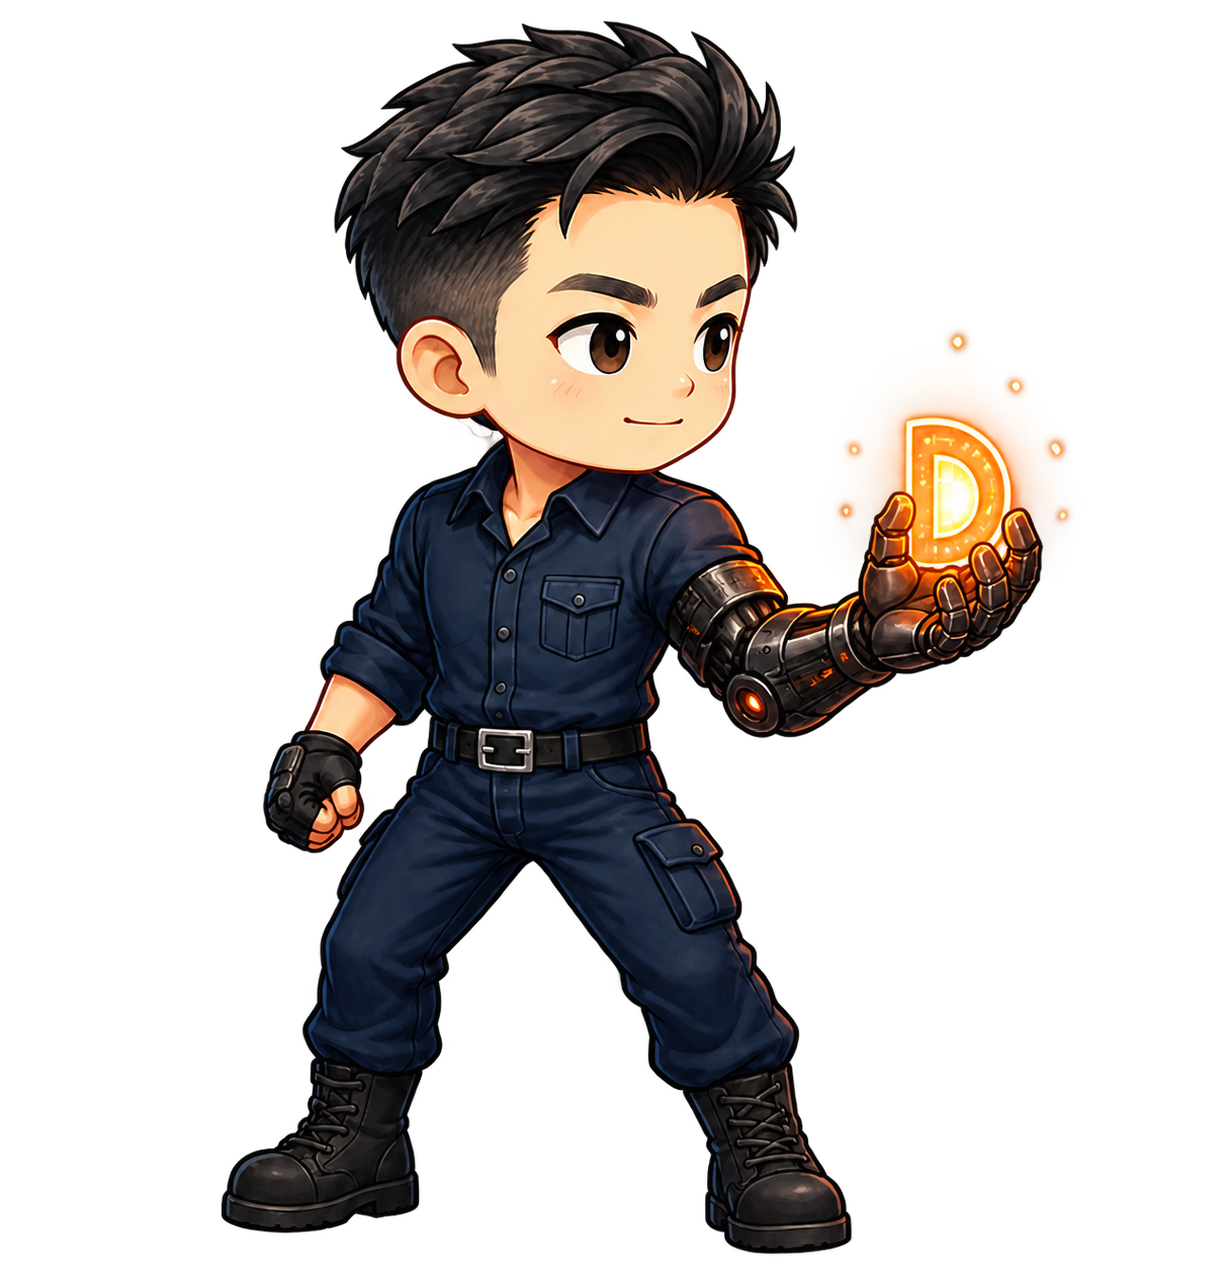
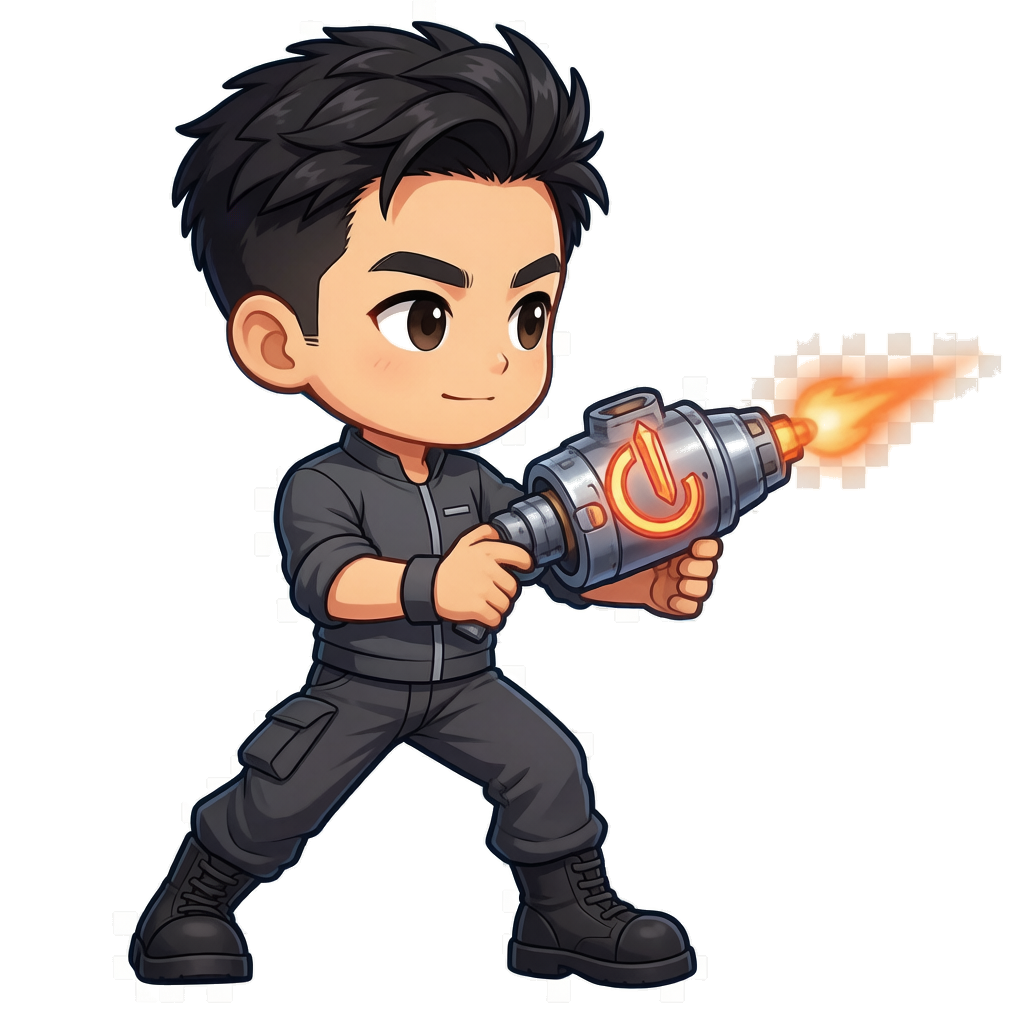
chore: snapshot before sprite placement refactor (I-level character art + project status)

diff --git a/docs/PROJECT_STATUS.md b/docs/PROJECT_STATUS.md
@@ -1,0 +1,178 @@
+# 项目阶段性总结
+
+> **项目：** 《逗呆呆家族大战外星人》（仓库名：`d-family-vs-aliens`）  
+> **状态日期：** 2026-08-30  
+> **用途：** 为后续开发、试玩和美术接入提供一个单页状态入口。现行玩法规则以
+> [`LOCKED_RULES.md`](./LOCKED_RULES.md) 为准；本文件不改变规则。
+
+## 1. 当前可玩版本
+
+项目已具备可玩的横屏、单机、无尽、离散回合制原型：Phaser 3 + TypeScript + Vite，
+并已配置 Capacitor Android 外壳。游戏的默认难度模式为
+`REWARD_ECONOMY_CURVE_V2`，其正常启动参数为 `BALANCED_V1`。
+
+玩家可拖拽、交换或合成防守单位；每次**合法**操作会完整结算一回合。当前有战斗
+动画、奖励捕获、合成/命中特效、音效、局后指标和本地调参面板。逻辑与难度测试已在
+此前阶段覆盖；本次仅新增文档，未重新修改或验证代码行为。
+
+## 2. 已确认核心玩法与规则
+
+- **棋盘：** 左侧防守区固定 `2 × 5`，右侧战场固定 `10 × 5`；防守单位不得进入战场。
+- **无尽回合制：** 合法操作 = 1 Turn；结算顺序为“玩家操作 → 全体单位齐射 →
+  Projectile 结算 → 存活敌人向左一格 → 世界静止”。玩家不操作，世界不推进。
+- **失败与得分：** 敌人进入防守区立即结束游戏；没有生命值或漏怪伤害。默认按实际
+  造成的敌人 HP 伤害计分。
+- **数值与攻击（Moyu V2）：** 单位值为 2 的幂；每株每回合发射一枚 Projectile，单发伤害为
+  Defender Value。Projectile 使用剩余伤害穿透敌人。
+- **大体型敌人：** 敌人为 `1 × 1` 或 `2 × 2`；后者共享 HP，能被所占两条 Lane 同时攻击。
+- **占位与表现：** Enemy / RewardBall footprint 不得重叠；无法安全生成或推进时跳过/停留。
+  战斗表现严格按“命中 → HP 更新 → 死亡移除”回放，避免视觉提前扣血或消失。
+
+## 3. Reward 经济模型（历史）
+
+RewardBall 是**唯一新增棋盘总战力**的来源；合成只改变分布，不增加总战力。
+
+- 出生槽开局为空；只能由 Projectile 命中 RewardBall 后写入。
+- RewardBall 命中后会消耗整颗 Projectile，并以 **Max Register** 更新出生槽：更低或相等
+  的值不会清空、降低或自动合成槽内数值；玩家可以跨回合保留出生槽。
+- RewardBall 是 `1 × 1` 战场单位，从最右列生成，随敌人移动；没有 HP，也不会直接造成
+  Game Over。
+- V2 自然 Reward 解锁池：T1–20 `{1}`、T21–40 `{1,2}`、T41–60 `{1,2,4}`、T61+ `{1,2,4,8}`，
+  自然生成硬上限为 `8`。`1` 在解锁后不会退出池。
+- 正常参数下每回合 Reward 生成率为 `0.80`，连续 1 回合未生成则触发保底。权重会从前期
+  约 `53/27/13/7%` 平滑走向后期约 `33/27/22/18%`（1/2/4/8）。
+- 经济记录区分四个值：**generated、reachable、captured、realized**；生成、可被射线触达、
+  实际捕获和最终放上棋盘不是同一件事。
+
+## 3A. 当前 Moyu Economy V2 规则方向
+
+当前开发目标已从自然 RewardBall/出生槽 Max Register 切换为《工位保卫战》Moyu Economy V2：
+
+- 每个 Defender 每回合只发射一颗 Projectile，伤害等于 Defender Value。
+- 资本怪可携带摸鱼值；死亡后在本轮全部 Projectile 结算完成后生成 MoyuPickup。
+- 任意 Projectile 命中 MoyuPickup 都会完整截弹并立即入 Moyu Bank，与伤害大小无关。
+- 摸鱼值到达回收边界时自动入账，不允许永久丢失；重复碰撞和动画中断不得重复或漏记。
+- 玩家从 Moyu Bank 主动提取 Power of Two；提取不耗 Turn，Spawn Slot 非空时禁止提取。
+
+实现细则与旧 RewardBall 路径见 [`MOYU_ECONOMY_V2_IMPLEMENTATION_NOTES.md`](./MOYU_ECONOMY_V2_IMPLEMENTATION_NOTES.md)。
+
+## 4. 难度系统与 `BALANCED_V1`
+
+难度由“标准玩家预期从 Reward 获得的战力”反推，**不读取真实玩家当前战力**，因此不是
+运行时橡皮筋。V2 以 `baselineCaptureRate`（45%）计算预期战力，再生成敌方 HP 收入预算。
+
+| 项目 | `BALANCED_V1` 默认值 |
+| --- | ---: |
+| Enemy Volume | `0.4` |
+| Enemy HP | `1.0` |
+| Reward Rate | `1.0` |
+| Large Enemy Rate | `1.0` |
+| Enemy Count Cap | `10` |
+| Baseline Reward Capture | `45%` |
+| Reward Progression | `1.0` |
+| High Value Bias | `0.70` |
+
+关键公式：`ExpectedPlantPower = 2 + 0.45 × cumulativeExpectedGeneratedReward`；
+`DifficultyFactor` 从 `0.45` 渐近增长至 `0.65`；普通怪目标 HP 约为预期战力的 `0.9`
+（生成时 ±15%），`2 × 2` 敌人 HP 约为普通怪 `1.1×`，但消耗 `1.8×` 出生预算。
+
+Spawn Safety Guard 会限制普通怪所需利用率至 55%、大怪至 60%，并对新批次设 75% 硬压力
+上限；必要时只会下调**新怪** HP、把大怪回退为普通怪或拒绝本次生成，不会改写场上怪物。
+
+`BALANCED_V1` 的已记录参考局为：**206,102 分 / Turn 574 / 最高单位 512 / PlantPower 844**，
+在持续压力达到 102% 后结束。旧 `PLAYABLE_BASELINE_V1` 与 `ENDLESS_CURVE_V1` 仍保留，
+只供 Debug 对照。
+
+## 5. UI 与 Android 适配
+
+- 逻辑画布为 `1920 × 1080`、16:9 横屏；主要布局为左侧防守区、右侧战场、顶部出生槽/分数/设置。
+- UI 有本地 Difficulty Debug Panel（按 `D` / 齿轮进入），可观察火力利用率、Reward 捕获率、
+  战场压力、出生安全检查和每局摘要；这些指标只用于观察，不会自动调难度。
+- Android 使用 Capacitor，应用 ID 为 `com.local.dfamilyvsaliens`，应用名为“逗呆呆家族大战外星人”，
+  `MainActivity` 已锁定横屏。当前仓库内有 `v1.0`–`v1.3-volume04` 的 debug APK **迁入前历史产物**，
+  不能视为本原创项目的正式发行版本；Android 工程版本号当前是 `2.0`（`versionCode 5`）。
+- 尚未做真机兼容性回归或正式签名/发布流程验证；后续每批资源接入后应重新执行 Web 构建与 Android debug build。
+
+## 6. 已确认美术与角色方向
+
+项目对外原创方向为 **D Family / D计划 / 呆呆一家**：爸爸、妈妈、小 R 共享原创 D-Core，
+不得使用植物、豆子、豌豆、叶片、花朵、植物炮，或任何会关联到既有游戏角色的命名与视觉语言。
+
+- **爸爸：** 火焰 / 穿透；红橙 D-Core，成长方向为熔炉、喷射能源、轨道炮和重型机械。
+- **妈妈：** Frost / 控场；冰蓝 D-Core，成长方向为冰晶、寒霜、领域与冰核。
+- **儿子：** 雷电 / 元素共鸣；黄白或青紫 D-Core。命中带 Fire 或 Frost 状态的敌人，各有
+  `+12.5%` 伤害的已确认数值草案；双状态的最终处理仍待决定。
+- 三条角色线各有 13 个二进制等级，按五阶段成长。实际生产先制作每人
+  `1 / 8 / 32 / 128 / 512 / 4096` 六张关键帧（共 18 张），而不是直接批量制作 39 张。
+- 战斗角色一律右向守线、约 45°，脚底基线一致，必须清晰表现为面向右侧来敌；透明 PNG、
+  身份特征和小尺寸轮廓可读性是验收要求。
+
+**当前资源状态：** 运行时仍存在历史植物/旧敌人占位资源，不能作为对外最终美术。仓库已新增
+`public/assets/d-family/characters/` 候选资源；截至本总结，爸爸图有修改、妈妈和小 R 图为
+未跟踪文件，均尚未完成正式资源映射和提交确认。
+
+## 7. 敌人行为原型
+
+现已实现的敌人行为是：`1 × 1`、`2 × 2`、共享 HP、占位阻挡、安全生成与逐格推进。
+后续行为型敌人仅为设计原型（来自阶段讨论，尚未写入规则或代码）：
+
+- 圆胖慢怪：低速/高阻塞感；
+- 细长快怪：更快的推进节奏；
+- 分裂怪：死亡后生成小怪；
+- 盾怪：正面减伤；
+- 跳跃怪：跨过前方因 Frost 停住的单位；
+- 吸能怪：吞噬 Reward。
+
+若用户确认进入该阶段，建议按“一个原型一轮”实施；可先验证 `JumpEnemy V1`（跨过前方因
+Frost 停住的单位），且不同时改难度、Reward 或 UI。
+
+## 8. 已知问题与未决项
+
+- RewardBall 与 Enemy 同格时的目标优先级、Projectile 在敌人后方命中 Reward 的几何顺序，仍需
+  参照试玩/原型确认。
+- RewardBall 到最左边界后的行为尚未确定。
+- 自然 Reward 值高于 `8` 的需求、`kill` 计分模式是否保留，尚未决定。
+- 难度仍需基于用户真实试玩反馈复测，尤其是成长曲线、Reward 出生位置和回合节奏。
+- 儿子对同时具有 Fire + Frost 的敌人的机制（简单 `+25%` 或独立共鸣）未确认。
+- 对外项目名称、爸爸 256 级最终参考图均待锁定。
+- 当前新 D Family 候选图未接入；旧资源、背景、敌人和叙事仍需逐步替换为原创资产。
+
+## 9. 暂缓事项
+
+除非用户明确提出，以下不做：关卡、商店、抽卡、升级树、装备、广告、账号、联网、排行榜、
+任务、成就、能量/生命、倍速、自动战斗、AI 策略或大型模拟系统。
+
+同样暂缓：一次性实现完整 39 张角色素材、六种敌人行为一起上线，以及把 Fire/Frost/雷电共鸣
+作为未验证的大型规则改造。
+
+## 10. 下一阶段优先级
+
+1. **锁定并接入第一批原创美术：** 三人 3 阶段的 9 个角色主体、对应 Projectile、命中特效与
+   Fire/Frost/共鸣状态；逐批人工验收右向姿态、透明度和角色识别。
+2. **替换敌人与场景叙事：** 先设计原创外星敌人，再清理旧占位美术的对外呈现。
+3. **小范围试玩复测：** 固定 `BALANCED_V1`，记录死亡分数/Turn、最高值、前期 2×2 出现时机、
+   Reward 捕获与压力比；只在证据充分后调参。
+4. **单一行为敌人原型：** 若核心循环确认稳定，再做 `JumpEnemy V1`，并配套测试与十分钟试玩。
+5. **体验收尾：** 评估合成值飘字、开场短提示与回合节奏（目标约 650–900ms）。
+
+## 11. 关键提交、版本与工作树
+
+| 项目 | 信息 |
+| --- | --- |
+| 当前分支 | `main` |
+| 当前 HEAD | `26dbd60` — `art: add right-facing mom and rocky sprite candidates`（2026-08-29） |
+| 仓库初始化 | `8cdc187` — `chore: initialize d-family vs aliens game project` |
+| 独立原创项目基线 | `d8d6e65` — `docs: document standalone game project baseline` |
+| 右向 Sprite 规范 | `b3fb062` — `docs: lock right-facing tower defense sprite orientation` |
+| 当前包版本 | `package.json`：`0.1.0`；Android：`2.0` / `versionCode 5` |
+| Git 远程 | 当前未配置远程仓库 |
+
+工作树包含未提交美术改动：修改的 `dad_fire_01.png`，以及未跟踪的
+`dou_ice_01.png`、`rocky_thunder_01.png`。它们是后续美术确认范围，不属于本次文档变更。
+
+---
+
+## 维护约定
+
+每次阶段性变化后，更新本文件的日期、当前可玩状态、未决项、下一步优先级与关键提交。
+玩法规则改动仍必须同步更新 `LOCKED_RULES.md` 和对应测试；本文件只做状态归纳。

diff --git a/docs/README.md b/docs/README.md
@@ -7,6 +7,7 @@
 | `OPEN_QUESTIONS.md` | Decisions waiting for the user. |
 | `TODO.md` | Small actionable work items; not game authority. |
 | `PROJECT_HANDOFF.md` | Detailed background and historical handoff. |
+| `PROJECT_STATUS.md` | Current stage summary: playable build, economy, art transition, risks, and next priorities. |
 | `DEVLOG.md` | Chronological change history. |
 | `ART_DIRECTION.md` | Art brief only. |
 | `DIFFICULTY.md` | Difficulty parameter guide and local debug-panel instructions. |
